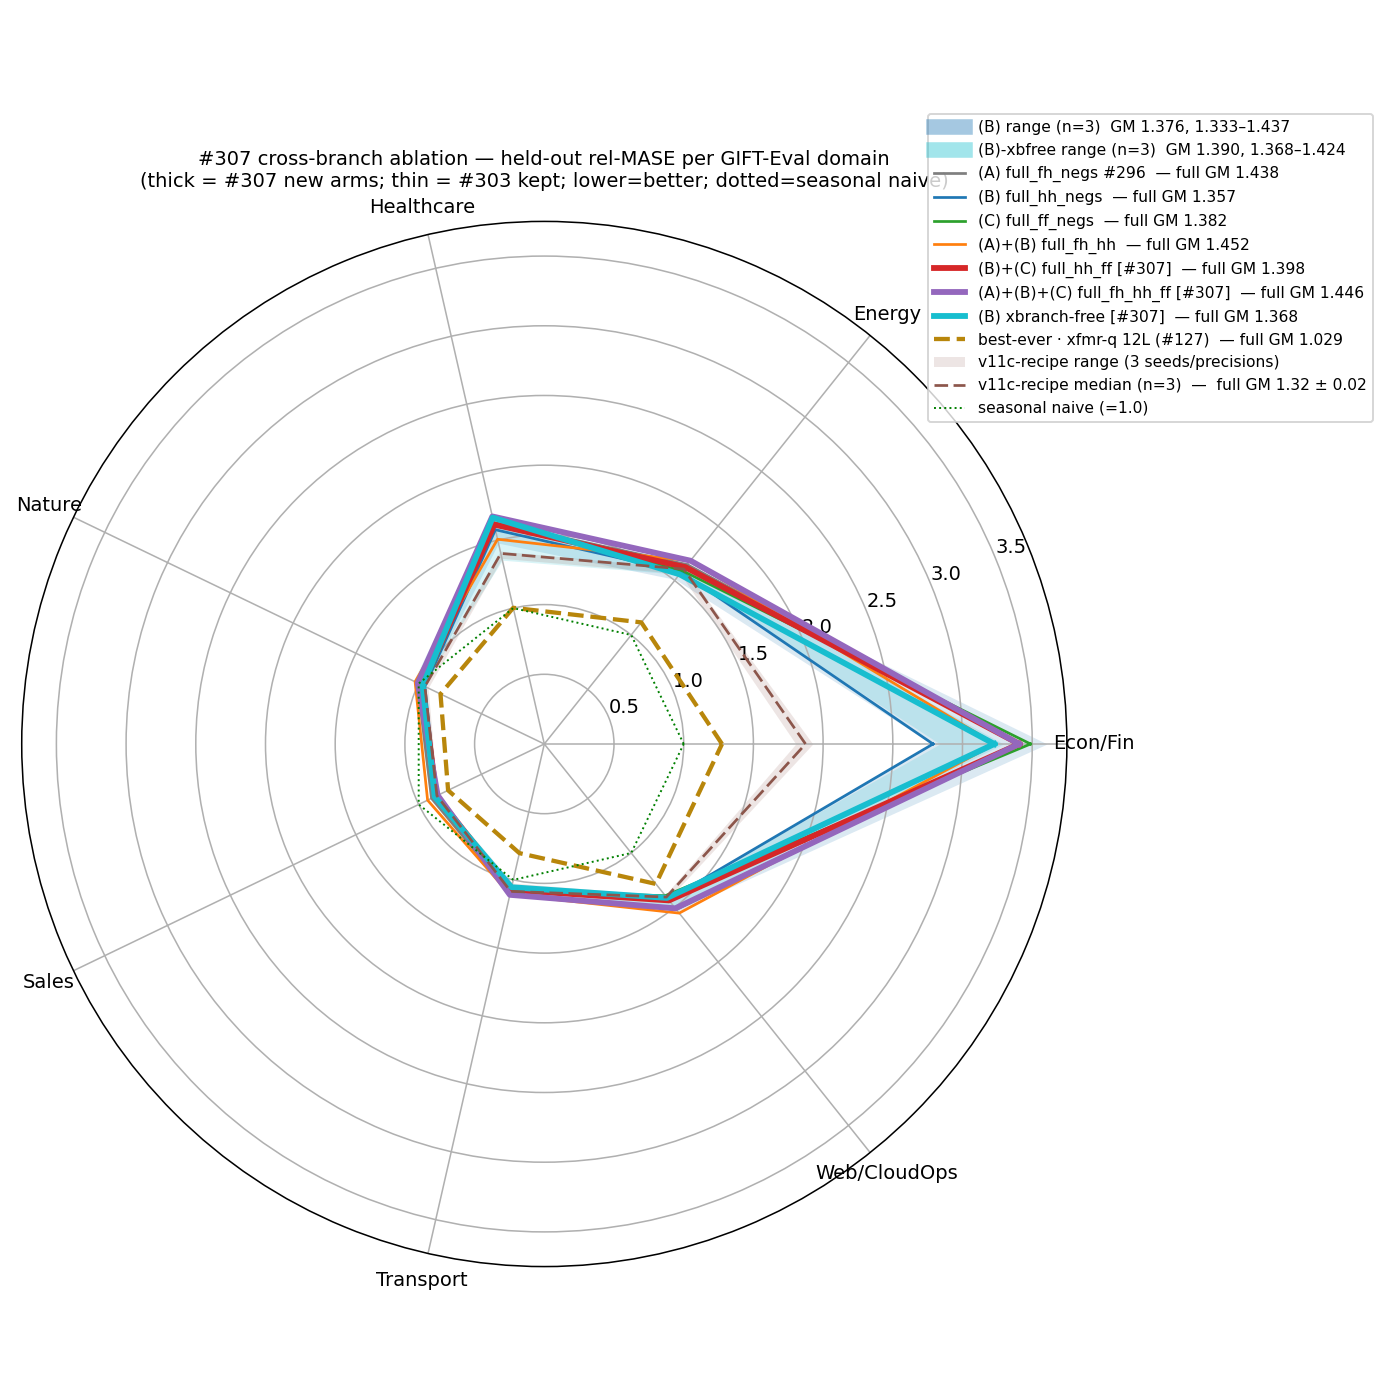
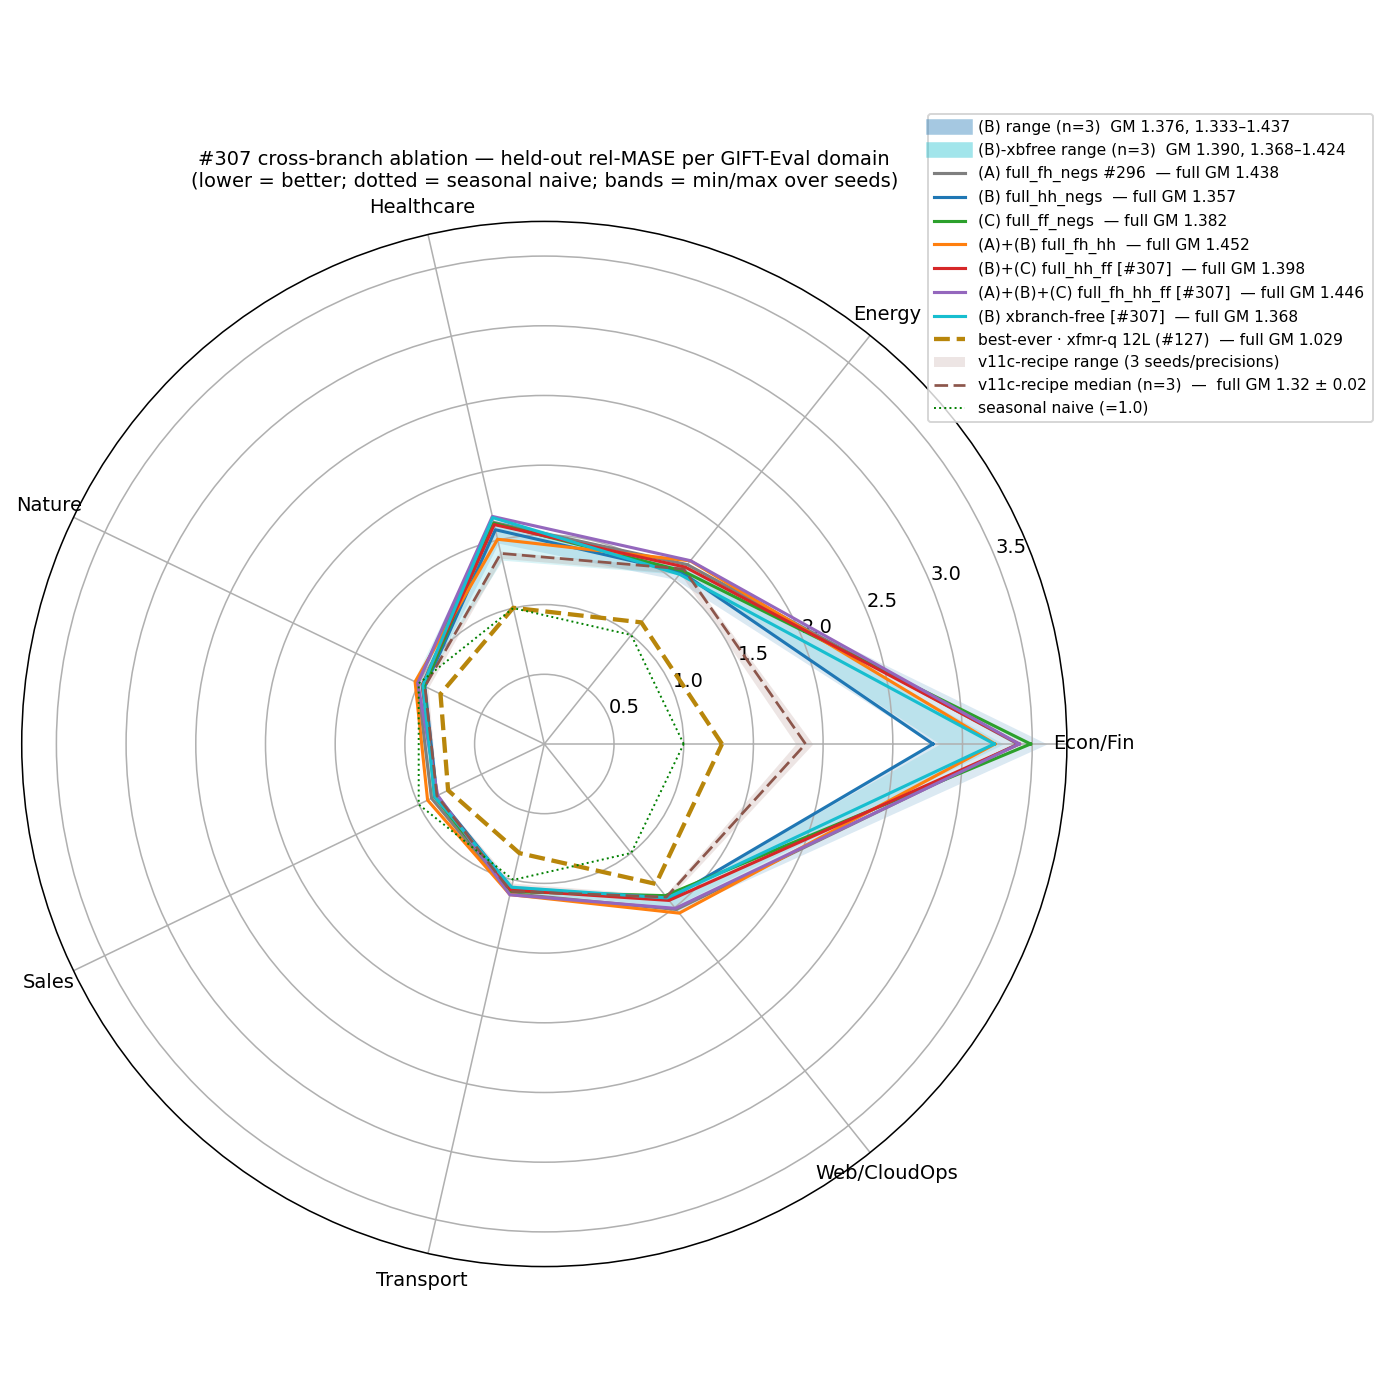
exp(#307): uniform radar line width + correct the framing
Radar: all arm lines now share one width (thickness carried no meaning
and was confusing); #303 vs #307 is read from the legend tag + colour.
Title no longer references thick/thin.

Framing correction (per review): the honest reading is **(B) full_hh is
the best candidate** (lowest mean GM) and **removing the f↔h cross-batch
negative is NOT shown to help** — (B)-xbfree lands inside (B)'s seed
spread, not below it, so there's no evidence dropping cross-batch f↔h
gains anything. Previous text framed it as 'f↔h is inert, drop it freely
/ everything is a tie', which over-read the result. Only (A) all-time
f↔h separates (clearly worse). Updated Answer, candle caption, and the
What-we-learned bullets accordingly.

diff --git a/experiments/2026-05-19_crossed_loss_xbranch_ablation/scripts/plot_results.py b/experiments/2026-05-19_crossed_loss_xbranch_ablation/scripts/plot_results.py
@@ -25,25 +25,28 @@ os.makedirs(OUT, exist_ok=True)
 A_NAME = "enc_fcst_bneck128_dk07_fullfh_norminfonce_1L_fp16_ddp128_50k"
 
 # label, colour, losses_csv, full_eval_dir, linestyle, lw, is_new
+# All arms share one line width (LW) — thickness carries no meaning;
+# #303 vs #307 is read from the legend tag + colour, not the stroke.
+LW = 1.6
 ARMS = [
     ("(A) full_fh_negs #296", "#7f7f7f",
      f"{ART303}/results/A_ref_losses_clean.csv",
-     f"{A17}/results/gift_eval_full_{A_NAME}", "-", 1.4, False),
+     f"{A17}/results/gift_eval_full_{A_NAME}", "-", LW, False),
     ("(B) full_hh_negs", "#1f77b4", f"{ART303}/runs/cl_hh_50k_losses.csv",
-     f"{ART303}/results/gift_eval_full_cl_hh_50k", "-", 1.4, False),
+     f"{ART303}/results/gift_eval_full_cl_hh_50k", "-", LW, False),
     ("(C) full_ff_negs", "#2ca02c", f"{ART303}/runs/cl_ff_50k_losses.csv",
-     f"{ART303}/results/gift_eval_full_cl_ff_50k", "-", 1.4, False),
+     f"{ART303}/results/gift_eval_full_cl_ff_50k", "-", LW, False),
     ("(A)+(B) full_fh_hh", "#ff7f0e", f"{ART303}/runs/cl_fhhh_50k_losses.csv",
-     f"{ART303}/results/gift_eval_full_cl_fhhh_50k", "-", 1.4, False),
+     f"{ART303}/results/gift_eval_full_cl_fhhh_50k", "-", LW, False),
     ("(B)+(C) full_hh_ff [#307]", "#d62728",
      f"{SY}/sync_hhff/runs/cl_hhff_50k_losses.csv",
-     f"{SY}/downstream_hhff/results/gift_eval_full_cl_hhff_50k", "-", 2.4, True),
+     f"{SY}/downstream_hhff/results/gift_eval_full_cl_hhff_50k", "-", LW, True),
     ("(A)+(B)+(C) full_fh_hh_ff [#307]", "#9467bd",
      f"{SY}/sync_fhhhff/runs/cl_fhhhff_50k_losses.csv",
-     f"{SY}/downstream_fhhhff/results/gift_eval_full_cl_fhhhff_50k", "-", 2.4, True),
+     f"{SY}/downstream_fhhhff/results/gift_eval_full_cl_fhhhff_50k", "-", LW, True),
     ("(B) xbranch-free [#307]", "#17becf",
      f"{SY}/sync_hhxbf/runs/cl_hhxbf_50k_losses.csv",
-     f"{SY}/downstream_hhxbf/results/gift_eval_full_cl_hhxbf_50k", "-", 2.4, True),
+     f"{SY}/downstream_hhxbf/results/gift_eval_full_cl_hhxbf_50k", "-", LW, True),
 ]
 REFS = [
     ("best-ever · xfmr-q 12L (#127)", "#b8860b", "--", 2.2,
@@ -119,8 +122,7 @@ radar = []
 for lab, col, _, ed, ls, lw, new in ARMS:
     g = rel_by_domain(f"{ed}/summary.txt", dom_map(f"{ed}/all_results.csv"))
     if g:
-        radar.append((lab, col, g, agg_gm(f"{ed}/summary.txt"), ls,
-                       lw + (0.6 if new else 0), new))
+        radar.append((lab, col, g, agg_gm(f"{ed}/summary.txt"), ls, lw, new))
 for lab, col, ls, lw, d in REFS:
     g = rel_by_domain(f"{d}/summary.txt", dom_map(f"{d}/all_results.csv"))
     if g:
@@ -221,8 +223,8 @@ if radar:
             label="seasonal naive (=1.0)")
     ax.set_xticks(ang[:-1]); ax.set_xticklabels(doms, fontsize=10)
     ax.set_title("#307 cross-branch ablation — held-out rel-MASE per "
-                 "GIFT-Eval domain\n(thick = #307 new arms; thin = #303 "
-                 "kept; lower=better; dotted=seasonal naive)", fontsize=10)
+                 "GIFT-Eval domain\n(lower = better; dotted = seasonal "
+                 "naive; bands = min/max over seeds)", fontsize=10)
     ax.legend(loc="upper right", bbox_to_anchor=(1.30, 1.11), fontsize=8)
     fig.tight_layout(); fig.savefig(f"{OUT}/perdomain_star.png", dpi=140)
     out = [(l, round(gm, 4) if gm else None)

diff --git a/experiments/2026-05-19_crossed_loss_xbranch_ablation/RESULTS.md b/experiments/2026-05-19_crossed_loss_xbranch_ablation/RESULTS.md
@@ -6,10 +6,10 @@
 
 ## Answer
 
-**(A) is the only loss term that matters, and it hurts.** Re-running the two leading arms at three seeds shows the per-seed spread is *wider* than the gaps between the non-A arms — so **(B), (C), (B)+(C) and (B)-xbfree are statistically indistinguishable**, while every arm containing (A) sits clearly above them. The f↔h negative can therefore be dropped entirely — (B)-xbfree matches (B) — not because it is special but because nothing in the non-A cluster beats anything else. Every arm still trails the v11c backbone recipe: the loss-shape is a minor lever next to the backbone itself.
+**(B) `full_hh` is the best arm; (A) all-time f↔h is the only clearly harmful one.** (B) has the lowest held-out GM of every arm (mean 1.376 over 3 seeds). The other within-branch arms (C, B+C, B-xbfree) land *inside* (B)'s per-seed spread — none beats it. In particular **(B)-xbfree, which removes the f↔h cross-batch negative, does not improve on (B)** (its mean is, if anything, slightly higher): there is **no evidence that dropping cross-batch f↔h helps**. Only the (A)-containing arms separate, sitting clearly worse — re-running at three seeds shows that gap is the one effect larger than the per-seed noise. And every arm trails the v11c backbone recipe, so the loss-shape is a minor lever next to the backbone itself.
 
 ![Per-arm full-97 GM with seed spread](plots/variance_box.png)
-*Per-arm GM ordered by mean (candle = mean ± 1σ, whisker = min–max, dots = seeds; n=3 for B and B-xbfree, n=1 otherwise). Green = no (A); red = contains (A). The green candles overlap; the red arms sit clearly above; v11c band at the floor.*
+*Per-arm GM ordered by mean (candle = mean ± 1σ, whisker = min–max, dots = seeds; n=3 for B and B-xbfree, n=1 otherwise). Green = no (A); red = contains (A). (B) has the lowest mean; the other green arms fall inside its spread (none beats it, and B-xbfree does not), so they don't separate; the red arms sit clearly above. v11c band at the floor.*
 
 ![Per-domain relative MASE](plots/perdomain_star.png)
 *Same arms per GIFT-Eval domain (lower = better; dotted green = naive). The (B) and (B)-xbfree seed bands overlap on every spoke; Econ/Fin is the widest spoke and drives most of the spread.*
@@ -49,9 +49,9 @@ Continuation of #303: identical backbone-of-record recipe (1L forecaster, fp16 g
 
 ## What we learned
 
-- **The f↔h negative is inert.** Dropping it entirely (B-xbfree) costs nothing measurable; only the f↔h *positive* carries information. (A)'s harm is specifically the *all-time* f↔h fan, not f↔h negatives in general.
-- **Inside the non-A cluster, the loss-shape choice is a tie.** Per-seed noise (CV ≈3–4 %, Econ/Fin-driven) exceeds the between-arm gaps; #303's single-seed "(B) is the unique winner" was overconfident.
-- **(A)'s harm is the one robust effect** and survives the seed re-estimate — but the loss is a small lever: every arm trails the v11c backbone recipe.
+- **(B) `full_hh` is the best candidate.** It has the lowest mean GM; the other non-A arms (C, B+C, B-xbfree) fall inside its per-seed spread, so we can't prove (B) strictly beats them — but none beats (B) either. #303's single-seed "(B) is the unique winner" overstated the certainty; (B) remains the leading estimate.
+- **Removing the f↔h cross-batch negative is not shown to help.** (B)-xbfree (no f↔h negative anywhere) lands within (B)'s spread, not below it — no evidence the cross-batch f↔h term hurts or that dropping it gains anything. The harmful term is specifically the *all-time* f↔h fan (A), not f↔h negatives in general.
+- **(A)'s harm is the one robust effect** — the only between-arm gap larger than the per-seed noise. But the loss is a small lever: every arm trails the v11c backbone recipe.
 
 ---
 
